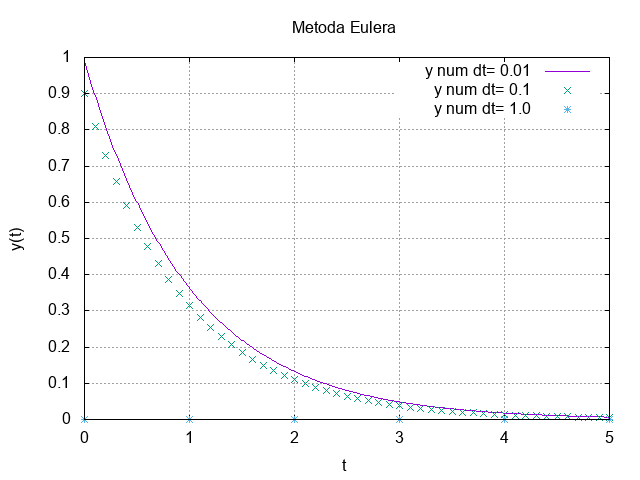
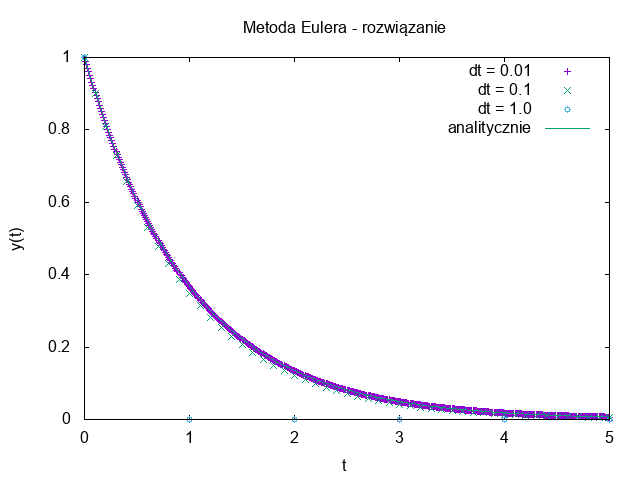
fix(lab01): fixed errors in lab01, now it's fully working

diff --git a/Lab 01 - RRZ - metoda Eulera, RK2, RK4/Program/IMN-lab01.cpp b/Lab 01 - RRZ - metoda Eulera, RK2, RK4/Program/IMN-lab01.cpp
@@ -1,31 +1,106 @@
-#include <array>
-#include <cmath>
-#include <string>
-#include <vector>
+#include <cmath>
+#include <cstdio>
 
-#define M_PI 3.14
+//w sumie mogłem korzystać C skoro i tak korzystałem z funkcji z C, ale juz niech tak zostanie
+//#define M_PI 3.14
+//potrzebne w VS, na taurusie niepotrzebne 
 
 using namespace std;
 
+//PROTOTYPY FUNKCJI
+double analytical_sol(double, double);
+void ex1_euler(FILE*, FILE*, double);
+void ex1_euler_analytically(FILE*, double);
+
+void ex2_rk2(FILE*, FILE*, double);
+
+double rk4_k1(double, double);
+double rk4_k2(double, double, double, double);
+double rk4_k3(double, double, double, double);
+double rk4_k4(double, double, double, double);
+
+void ex3_rk4(FILE* solutions, FILE*, double);
+
+double V_t(double om_v, double t);
+double g(double, double, double, double, double, double, double);
+void ex4_rlc(double, FILE*, FILE*, double);
+
+int main() {
+
+    FILE* solutions;
+    FILE* errors;
+    FILE* analytical;
+
+    solutions = fopen("ex1_sol.txt", "w");
+    errors = fopen("ex1_err.txt", "w");
+    analytical = fopen("ex1_an.txt", "w");
+
+    //wywołanie funkcji dla zadania 1
+    ex1_euler(solutions, errors, 0.01);
+    ex1_euler(solutions, errors, 0.1);
+    ex1_euler(solutions, errors, 1.0);
+
+    ex1_euler_analytically(analytical, 0.01);
+
+    fclose(solutions);
+    fclose(errors);
+    fclose(analytical);
+
+    //wywołanie funkcji dla zadania 2
+    solutions = fopen("ex2_sol.txt", "w");
+    errors = fopen("ex2_err.txt", "w");
+
+    ex2_rk2(solutions, errors, 0.01);
+    ex2_rk2(solutions, errors, 0.1);
+    ex2_rk2(solutions, errors, 1.0);
+
+    fclose(solutions);
+    fclose(errors);
+
+    //wywołanie funkcji dla zadania 3
+    solutions = fopen("ex3_sol.txt", "w");
+    errors = fopen("ex3_err.txt", "w");
+
+    ex3_rk4(solutions, errors, 0.01);
+    ex3_rk4(solutions, errors, 0.1);
+    ex3_rk4(solutions, errors, 1.0);
+
+    fclose(solutions);
+    fclose(errors);
+
+    //wywołanie funkcji dla zadania 4
+    FILE* rlcQ;
+    FILE* rlcI;
+    
+    rlcQ = fopen("ex4_Q.txt", "w");
+    rlcI = fopen("ex4_I.txt", "w");
+
+    double dt = pow(10.0, -4.0);
+
+    ex4_rlc(0.5, rlcQ, rlcI, dt);
+    ex4_rlc(0.8, rlcQ, rlcI, dt);
+    ex4_rlc(1.0, rlcQ, rlcI, dt);
+    ex4_rlc(1.2, rlcQ, rlcI, dt);
+
+    fclose(rlcQ);
+    fclose(rlcI);
+}
+
 // Zadanie 1. //////////////////////// EULER /////////////////////////////
 
-double FUNCTIONX(double lambda, double t) {
+double analytical_sol(double lambda, double t) {
     return exp(lambda * t);
 }
 
 void ex1_euler(FILE* solutions, FILE* errors, double dt) {
-    //początek i koniec naszego zakresu
-    double t_min = 0.0;
-    double t_max = 5.0;
     double lambda = -1.;
-
     double y = 1.;
 
-    for (double t = t_min; t <= t_max; t += dt) {
-        y = y + dt * (lambda * y);      
-
+    for (double t = 0.; t <= 5.; t += dt) {
         fprintf(solutions, "%f %f \n", t, y);
-        fprintf(errors, "%f %f \n", t, y - FUNCTIONX(lambda, t));
+        fprintf(errors, "%f %f \n", t, y - analytical_sol(lambda, t));
+
+        y = y + dt * (lambda * y);
     }
 
     //robimy przerwę w plikach
@@ -34,15 +109,11 @@ void ex1_euler(FILE* solutions, FILE* errors, double dt) {
 }
 
 void ex1_euler_analytically(FILE* filename, double dt) {
-    //początek i koniec naszego zakresu
-    double t_min = 0.0;
-    double t_max = 5.0;
     double lambda = -1.;
-
     double y = 1.;
 
-    for (double t = t_min; t <= t_max; t += dt) {
-        fprintf(filename, "%f %f \n", t, FUNCTIONX(lambda, t));
+    for (double t = 0.; t <= 5.; t += dt) {
+        fprintf(filename, "%f %f \n", t, analytical_sol(lambda, t));
     }
 
     //robimy przerwę w pliku
@@ -52,123 +123,71 @@ void ex1_euler_analytically(FILE* filename, double dt) {
 // Zadanie 2. //////////////////////// RK2 /////////////////////////////
 
 void ex2_rk2(FILE* solutions, FILE* errors, double dt) {
-    double t_min = 0.0;
-    double t_max = 5.0;
     double lambda = -1.;
-
     double y = 1.;
-  
 
-    for (double t = t_min; t <= t_max; t += dt) {
+    for (double t = 0.; t <= 5.; t += dt) {
+
         double k_1 = lambda * y;
         double k_2 = lambda * (y + dt * k_1);
 
-        y = y + (dt / 2.) * (k_1 + k_2);
-
         fprintf(solutions, "%f %f \n", t, y);
-        fprintf(errors, "%f %f \n", t, y - FUNCTIONX(lambda, t));
+        fprintf(errors, "%f %f \n", t, y - analytical_sol(lambda, t));
+
+        y = y + (dt / 2.) * (k_1 + k_2);
     }
 
     fprintf(solutions, " \n \n");
     fprintf(errors, " \n \n");
 }
 
-//wiem, ta funkcja jest taka sama jak z przykładu pierwszego, 
-//lecz po prostu chciałem żeby się jakoś wyróżniały
-void ex2_rk2_analytically(FILE* filename, double dt) {
-    //początek i koniec naszego zakresu
-    double t_min = 0.0;
-    double t_max = 5.0;
-    double lambda = -1.;
-
-    double y = 1.;
-
-    for (double t = t_min; t <= t_max; t += dt) {
-        fprintf(filename, "%f %f \n", t, FUNCTIONX(lambda, t));
-    }
-
-    //robimy przerwę w pliku
-    fprintf(filename, " \n \n");
-}
-
 // Zadanie 3. //////////////////////// RK4 /////////////////////////////
 
-//funckja służąca do obliczenia k_1
-double rk4_k1(double lambda, double y) {
-    return lambda * y;
-}
-
-//funckja służąca do obliczenia k_2
-double rk4_k2(double lambda, double y, double dt, double k_1) {
-    return lambda * (y + dt * k_1 / 2.0);
-}
-
-//funckja służąca do obliczenia k_3
-double rk4_k3(double lambda, double y, double dt, double k_2) {
-    return lambda * (y + dt * k_2 / 2.0);
-}
-
-//funckja służąca do obliczenia k_4
-double rk4_k4(double lambda, double y, double dt, double k_3) {
-    return lambda * (y + dt * k_3);
-}
-
-
 void ex3_rk4(FILE* solutions, FILE* errors, double dt) {
-    //początek i koniec naszego zakresu
-    double t_min = 0.0;
-    double t_max = 5.0;
     double lambda = -1.;
-
     double y = 1.;
 
-    for (double t = t_min; t <= t_max; t += dt) {
+    for (double t = 0.; t <= 5.; t += dt) {
 
         double k_1 = rk4_k1(lambda, y);
         double k_2 = rk4_k2(lambda, y, dt, k_1);
         double k_3 = rk4_k3(lambda, y, dt, k_2);
         double k_4 = rk4_k4(lambda, y, dt, k_3);
 
-        y = y + (dt / 6.) * (k_1 + (2 * k_2) + (2 * k_3) + k_4);
-
         fprintf(solutions, "%f %f \n", t, y);
-        fprintf(errors, "%f %f \n", t, y - FUNCTIONX(lambda, t));
-        
+        fprintf(errors, "%f %f \n", t, y - analytical_sol(lambda, t));
+
+        y = y + (dt / 6.) * (k_1 + (2 * k_2) + (2 * k_3) + k_4);
     }
 
     fprintf(solutions, " \n \n");
     fprintf(errors, " \n \n");
 }
 
-//wiem, ta funkcja jest taka sama jak z przykładu pierwszego, 
-//lecz po prostu chciałem żeby się jakoś wyróżniały
-void ex3_rk4_analytically(FILE* filename, double dt) {
-    //początek i koniec naszego zakresu
-    double t_min = 0.0;
-    double t_max = 5.0;
-    double lambda = -1.;
+//funkcja służąca do obliczenia k_1
+double rk4_k1(double lambda, double y) {
+    return lambda * y;
+}
 
-    double y = 1.;
+//funkcja służąca do obliczenia k_2
+double rk4_k2(double lambda, double y, double dt, double k_1) {
+    return lambda * (y + dt * k_1 / 2.0);
+}
 
-    for (double t = t_min; t <= t_max; t += dt) {
-        fprintf(filename, "%f %f \n", t, FUNCTIONX(lambda, t));
-    }
+//funkcja służąca do obliczenia k_3
+double rk4_k3(double lambda, double y, double dt, double k_2) {
+    return lambda * (y + dt * k_2 / 2.0);
+}
 
-    //robimy przerwę w pliku
-    fprintf(filename, " \n \n");
+//funkcja służąca do obliczenia k_4
+double rk4_k4(double lambda, double y, double dt, double k_3) {
+    return lambda * (y + dt * k_3);
 }
 
 // Zadanie 4. //////////////////////// RLC /////////////////////////////
 
-double V_t(double om_v, double t) {
-    return 10.0 * sin(om_v * t);
-}
+void ex4_rlc(double freq, FILE* filenameQ, FILE* filenameI, double dt) {
 
-double g(double t, double Q, double I, double om_v, double R, double L, double C) {
-    return (V_t(om_v, t) / L) - (R * I / L) - (Q / (L * C));
-}
-
-void ex4_rlc(double freq, FILE* filename, double dt) {
     double R = 100;
     double L = 0.1;
     double C = 0.001;
@@ -176,15 +195,12 @@ void ex4_rlc(double freq, FILE* filename, double dt) {
     double om_0 = 1.0 / sqrt(L * C);
     double T_0 = 2.0 * M_PI / om_0;
 
-    double t_min = 0.0;
-    double t_max = 4 * T_0;
-
     double Q = 0.0;
     double I = 0.0;
 
     double om_v = freq * om_0;
 
-    for (double t = t_min; t <= t_max; t += dt) {
+    for (double t = 0.; t <= 4 * T_0; t += dt) {
 
         double kq_1 = I;
         double ki_1 = g(t, Q, I, om_v, R, L, C);
@@ -201,76 +217,18 @@ void ex4_rlc(double freq, FILE* filename, double dt) {
         Q = Q + (dt / 6) * (kq_1 + (2 * kq_2) + (2 * kq_3) + kq_4);
         I = I + (dt / 6) * (ki_1 + (2 * ki_2) + (2 * ki_3) + ki_4);
         
-        fprintf(filename, "%f %f \n", t, Q);
+        fprintf(filenameQ, "%f %f \n", t, Q);
+        fprintf(filenameI, "%f %f \n", t, I);
     }
 
-    fprintf(filename, "\n \n");
+    fprintf(filenameQ, "\n \n");
+    fprintf(filenameI, "\n \n");
 }
 
-int main() {
+double V_t(double om_v, double t) {
+    return 10.0 * sin(om_v * t);
+}
 
-    FILE* solutions;
-
-    FILE* errors;
-
-    FILE* analytical;
-    
-    solutions = fopen("ex1_sol.dat", "w");
-    errors = fopen("ex1_err.dat", "w");
-    analytical = fopen("ex1_an.dat", "w");
-
-    //wywołanie funkcji dla zadania 1
-    ex1_euler(solutions, errors, 0.01);
-    ex1_euler(solutions, errors, 0.1);
-    ex1_euler(solutions, errors, 1.0);
-
-    ex1_euler_analytically(analytical, 0.01);
-
-    fclose(solutions);
-    fclose(errors);
-    fclose(analytical);
-
-    //wywołanie funkcji dla zadania 2
-    solutions = fopen("ex2_sol.dat", "w");
-    errors = fopen("ex2_err.dat", "w");
-    analytical = fopen("ex2_an.dat", "w");
-
-    ex2_rk2(solutions, errors, 0.01);
-    ex2_rk2(solutions, errors, 0.1);
-    ex2_rk2(solutions, errors, 1.0);
-
-    ex2_rk2_analytically(analytical, 0.01);
-
-    fclose(solutions);
-    fclose(errors);
-    fclose(analytical);
-
-    //wywołanie funkcji dla zadania 3
-    solutions = fopen("ex3_sol.dat", "w");
-    errors = fopen("ex3_err.dat", "w");
-    analytical = fopen("ex3_an.dat", "w");
-
-    ex3_rk4(solutions, errors, 0.01);
-    ex3_rk4(solutions, errors, 0.1);
-    ex3_rk4(solutions, errors, 1.0);
-
-    ex3_rk4_analytically(analytical, 0.01);
-
-    fclose(solutions);
-    fclose(errors);
-    fclose(analytical);
-
-    //wywołanie funkcji dla zadania 4
-    FILE* rlc;
-
-    rlc = fopen("ex4_sol.dat", "w");
-    
-    double dt = pow(10.0, -4.0);
-
-    ex4_rlc(0.5, rlc, dt);
-    ex4_rlc(0.8, rlc, dt);
-    ex4_rlc(1.0, rlc, dt);
-    ex4_rlc(1.2, rlc, dt);
-
-    fclose(rlc);
+double g(double t, double Q, double I, double om_v, double R, double L, double C) {
+    return (V_t(om_v, t) / L) - (R * I / L) - (Q / (L * C));
 }
